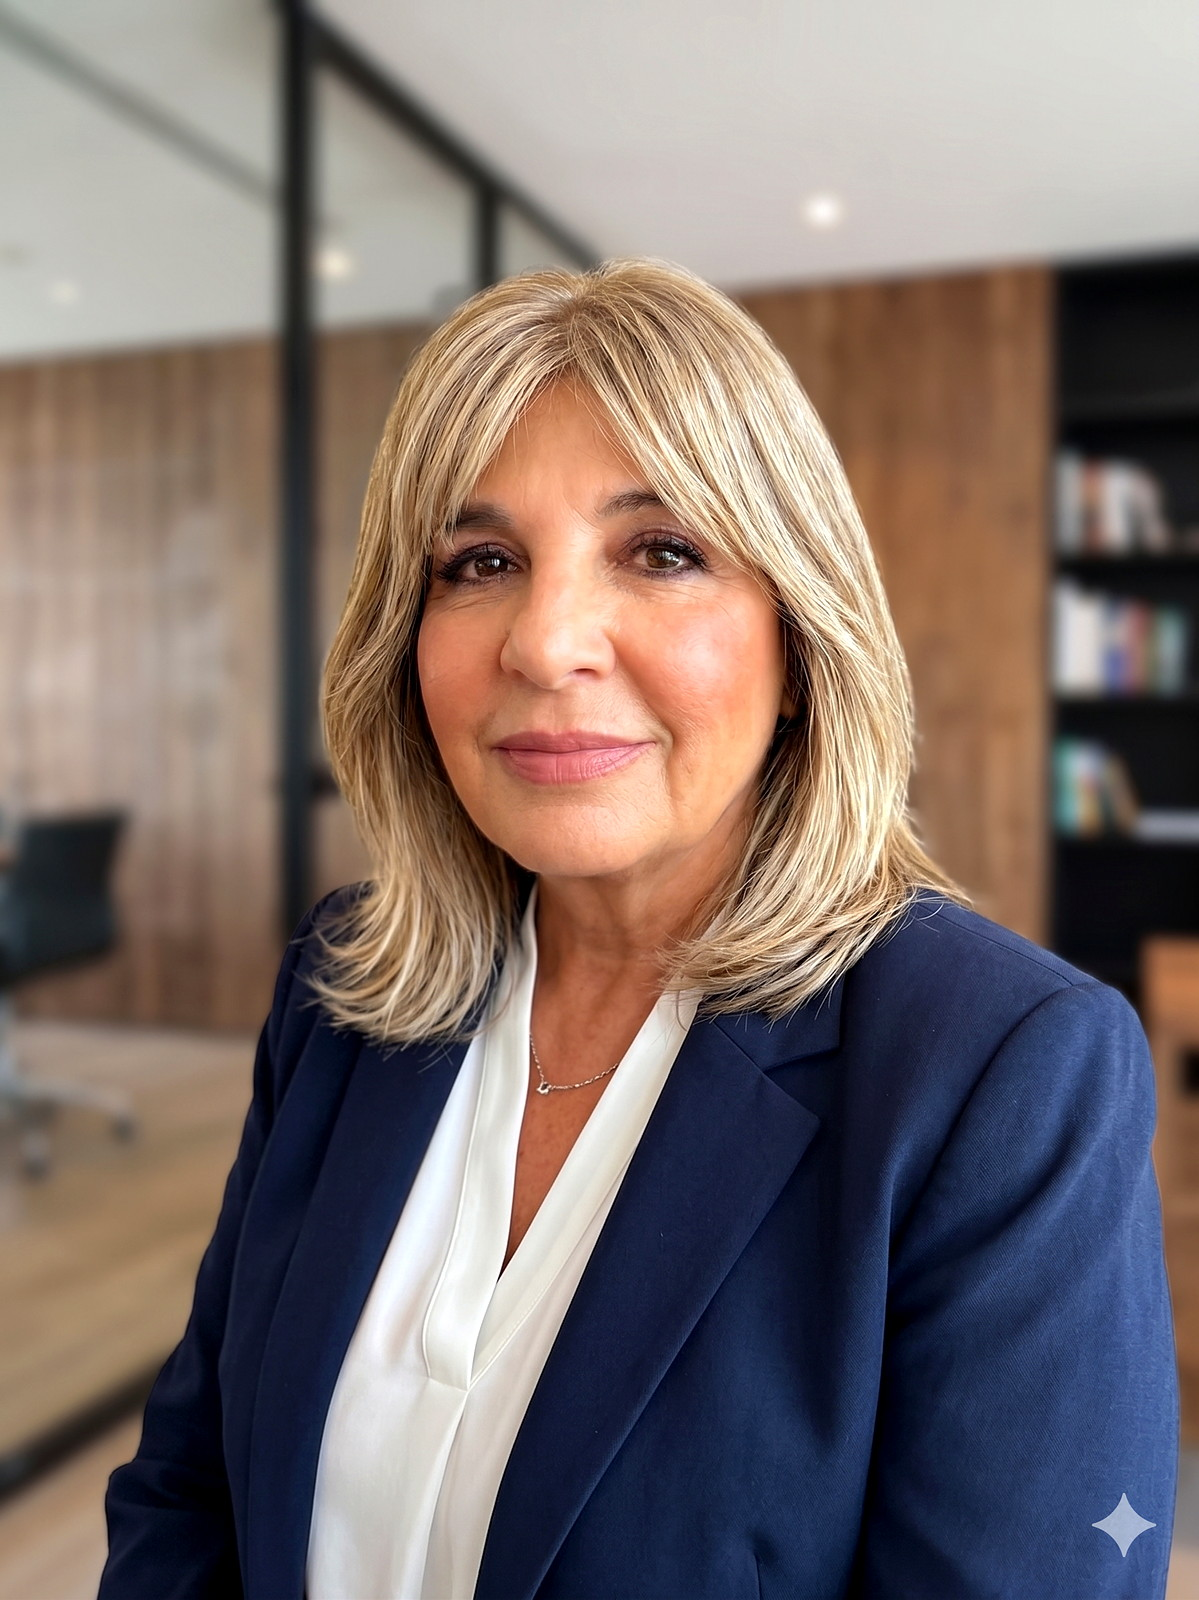
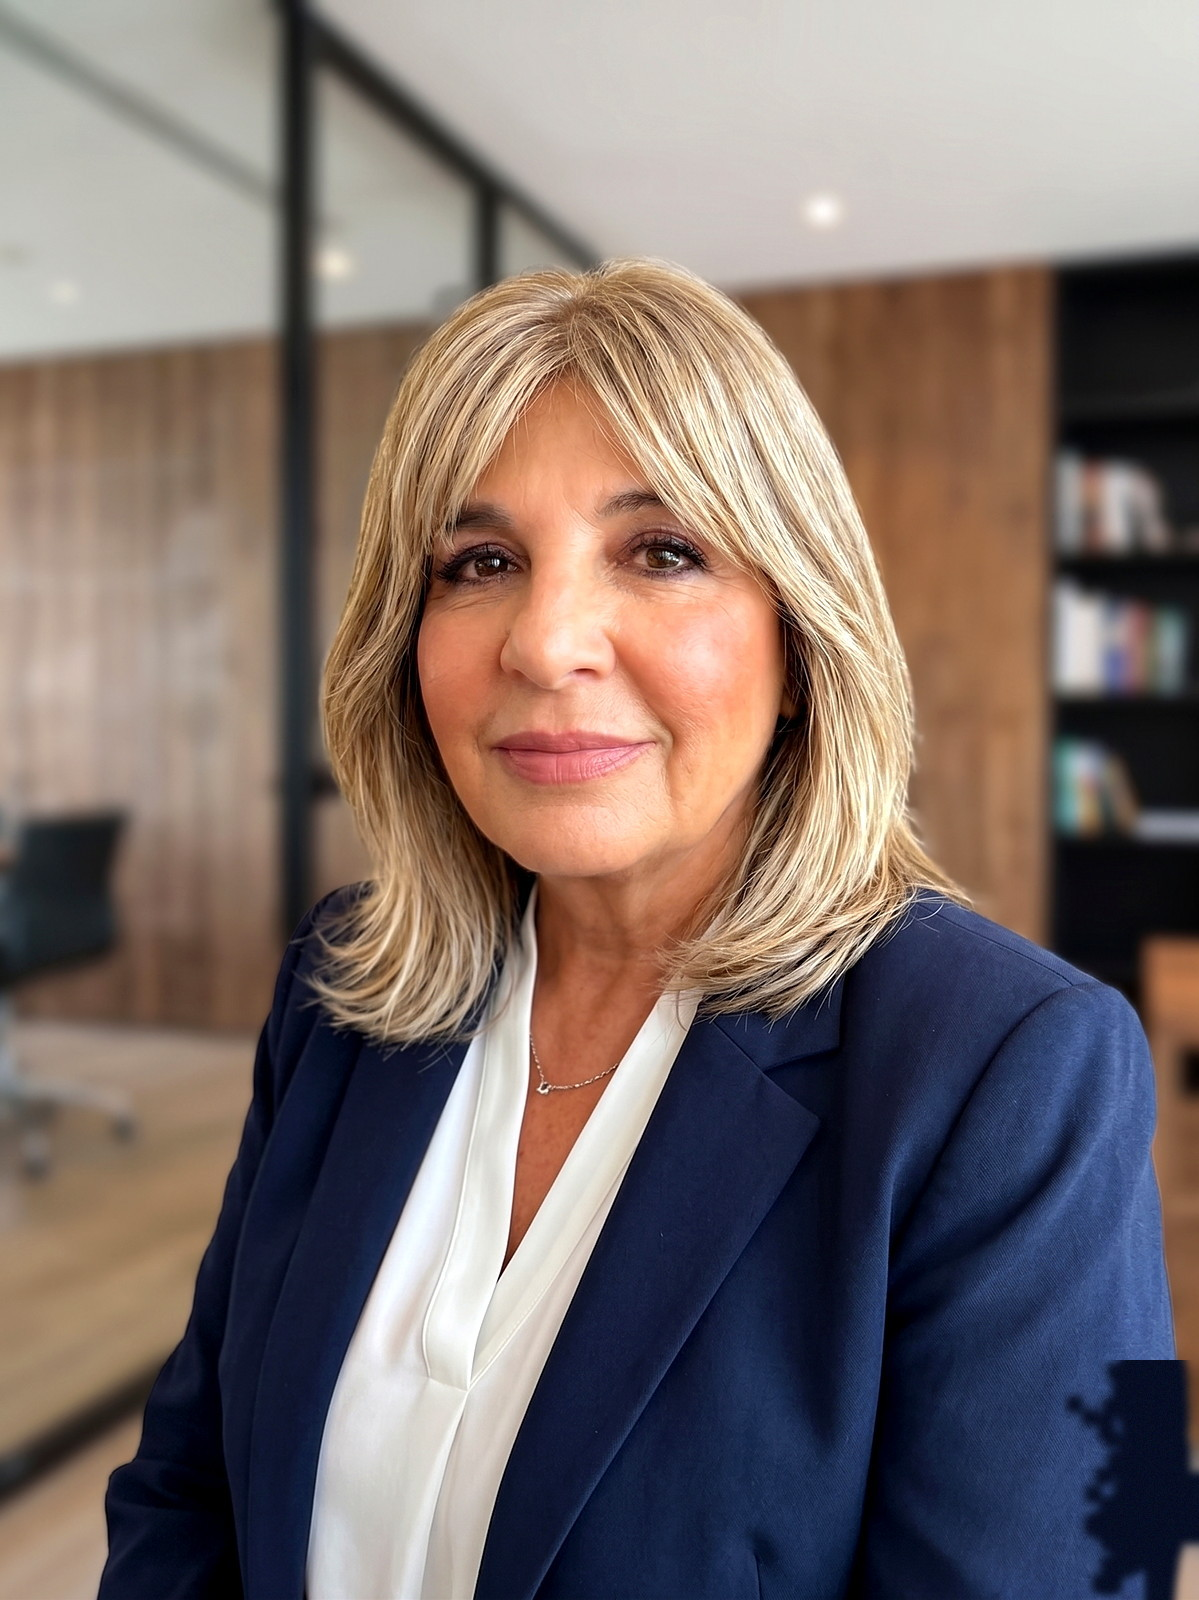
Warm cream background, remove Gemini watermark from headshot
- bg-warm-page: deeper warm cream gradient replaces cool slate
- Remove Gemini sparkle watermark from aliza.jpg via local color-fill
- Drop the architectural blueprint grid (per feedback)
- scripts/remove_watermark.py for future use

Changed region(s): [[0.8949, 0.8438, 1.0, 1.0]]

diff --git a/src/app/globals.css b/src/app/globals.css
@@ -12,10 +12,28 @@ body {
 }
 
 body {
-  @apply bg-white text-slate-900 antialiased;
+  @apply bg-stone-50 text-slate-900 antialiased;
 }
 
 ::selection {
   @apply bg-brand-200 text-slate-900;
 }
 
+/* Subtle architectural grid — used as a hero backdrop. */
+.bg-blueprint {
+  background-color: #f7f5f1;
+  background-image:
+    linear-gradient(to right, rgba(15, 23, 42, 0.04) 1px, transparent 1px),
+    linear-gradient(to bottom, rgba(15, 23, 42, 0.04) 1px, transparent 1px);
+  background-size: 56px 56px;
+}
+
+/* Warm cream gradient — slightly deeper tone. */
+.bg-warm-page {
+  background-image: linear-gradient(
+    to bottom,
+    #ebe4d5 0%,
+    #f2ece0 40%,
+    #f6f1e6 100%
+  );
+}

diff --git a/src/app/page.tsx b/src/app/page.tsx
@@ -60,7 +60,7 @@ const gallery = [
 
 export default function HomePage() {
   return (
-    <div className="min-h-screen bg-gradient-to-b from-slate-50 to-white">
+    <div className="min-h-screen bg-warm-page">
       <SiteHeader />
 
       <main>

diff --git a/src/app/projects/[slug]/page.tsx b/src/app/projects/[slug]/page.tsx
@@ -40,7 +40,7 @@ export default async function ProjectDetailPage({
     project.gallery && project.gallery.length > 1 ? project.gallery : null;
 
   return (
-    <div className="min-h-screen bg-gradient-to-b from-slate-50 to-white">
+    <div className="min-h-screen bg-warm-page">
       <SiteHeader />
 
       <main>

diff --git a/src/components/site/MarketingPage.tsx b/src/components/site/MarketingPage.tsx
@@ -13,7 +13,7 @@ export function MarketingPage({
   children: ReactNode;
 }) {
   return (
-    <div className="min-h-screen bg-gradient-to-b from-slate-50 to-white">
+    <div className="min-h-screen bg-warm-page">
       <SiteHeader />
       <main>
         <section className="py-12 md:py-16">

diff --git a/scripts/remove_watermark.py b/scripts/remove_watermark.py
@@ -1,0 +1,63 @@
+"""Remove the Gemini sparkle watermark from the bottom-right of aliza.jpg."""
+
+from PIL import Image, ImageFilter
+import numpy as np
+
+P = "/Users/amitzack/aliza-zack-civil-webapp/public/aliza.jpg"
+
+def main():
+    img = Image.open(P).convert("RGB")
+    arr = np.asarray(img).astype(np.int16)
+    H, W, _ = arr.shape
+
+    # ROI — bottom-right corner where the watermark lives.
+    roi_x0 = int(W * 0.78)
+    roi_x1 = W
+    roi_y0 = int(H * 0.85)
+    roi_y1 = H
+
+    R, G, B = arr[..., 0], arr[..., 1], arr[..., 2]
+    # Watermark is desaturated light-blue on navy. Targets: pixels that are
+    # noticeably brighter & bluer than the surrounding navy.
+    lum = (0.299 * R + 0.587 * G + 0.114 * B)
+    is_light = lum > 95
+    # Make sure it's NOT a strong colored shadow — blue/whiteish only.
+    bluish = (B >= G) & (B >= R - 5)
+
+    mask = np.zeros((H, W), dtype=bool)
+    mask[roi_y0:roi_y1, roi_x0:roi_x1] = (
+        is_light[roi_y0:roi_y1, roi_x0:roi_x1]
+        & bluish[roi_y0:roi_y1, roi_x0:roi_x1]
+    )
+
+    # Dilate the mask so we cover the watermark's anti-aliased edges.
+    m_img = Image.fromarray((mask.astype(np.uint8) * 255), mode="L")
+    m_img = m_img.filter(ImageFilter.MaxFilter(9))
+    m_img = m_img.filter(ImageFilter.MaxFilter(9))
+    m_img = m_img.filter(ImageFilter.GaussianBlur(radius=4))
+    mask_arr = np.asarray(m_img).astype(np.float32) / 255.0
+
+    # Sample the local navy color from a clean band JUST to the LEFT of the ROI.
+    sample_x0 = max(0, roi_x0 - 60)
+    sample_x1 = roi_x0
+    sample = arr[roi_y0:roi_y1, sample_x0:sample_x1, :]
+    base = sample.mean(axis=(0, 1))  # RGB navy mean
+    # Add a tiny bit of color noise so it doesn't look like a flat patch.
+    rng = np.random.default_rng(11)
+    fill = np.empty_like(arr[roi_y0:roi_y1, roi_x0:roi_x1, :])
+    for c in range(3):
+        noise = rng.integers(-6, 7, fill.shape[:2])
+        fill[..., c] = np.clip(base[c] + noise, 0, 255).astype(np.int16)
+
+    # Blend the fill into the ROI using the soft mask.
+    src = arr[roi_y0:roi_y1, roi_x0:roi_x1, :].astype(np.float32)
+    m_roi = mask_arr[roi_y0:roi_y1, roi_x0:roi_x1, None]
+    blended = src * (1 - m_roi) + fill.astype(np.float32) * m_roi
+    arr[roi_y0:roi_y1, roi_x0:roi_x1, :] = np.clip(blended, 0, 255).astype(np.int16)
+
+    out = Image.fromarray(arr.astype(np.uint8), mode="RGB")
+    out.save(P, "JPEG", quality=90, optimize=True, progressive=True, subsampling=1)
+    print(f"wrote {P}")
+
+if __name__ == "__main__":
+    main()